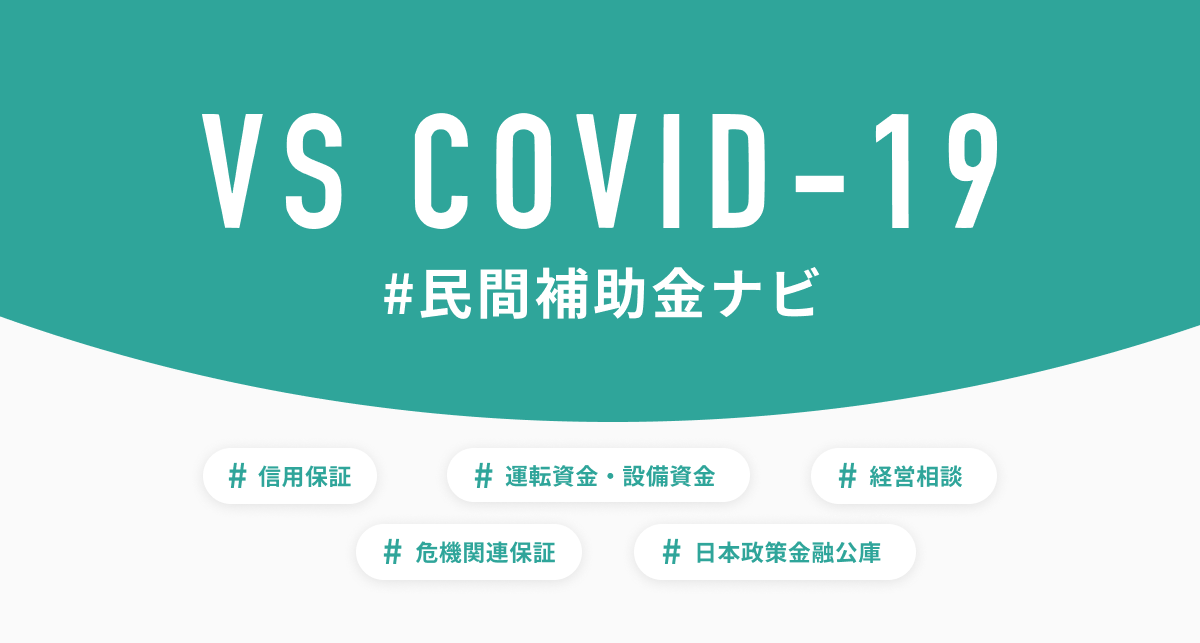
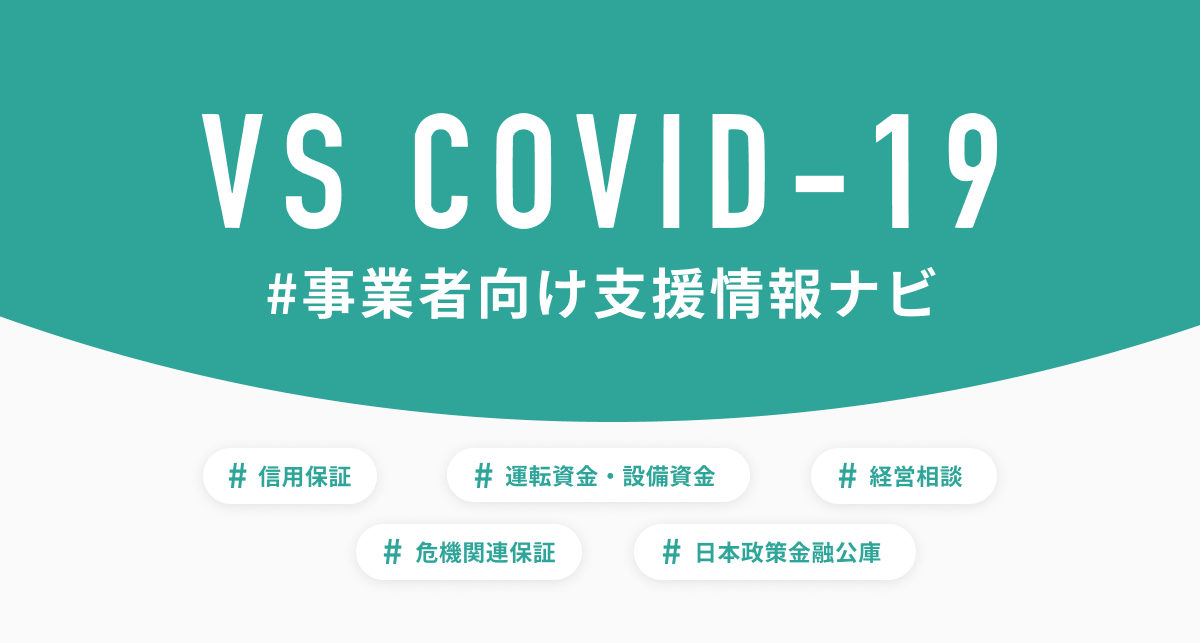
:camera: Update main image

Changed region(s): [[0.2158, 0.4044, 0.8017, 0.4977]]

diff --git a/src/index.html b/src/index.html
@@ -9,7 +9,7 @@
     <meta property="og:type"          content="website" />
     <meta property="og:title"         content="VS COVID-19 #事業者向け支援情報ナビ" />
     <meta property="og:description"   content="行政機関による新型コロナウイルス感染症対策支援情報まとめ" />
-    <meta property="og:image"         content="https://user-images.githubusercontent.com/19779874/78472362-09591980-7773-11ea-9a00-a3b959cadc36.png" />
+    <meta property="og:image"         content="https://user-images.githubusercontent.com/19779874/78472507-55f12480-7774-11ea-8eb8-6cc79842cf55.png" />
     <meta name="twitter:card" content="summary_large_image"> -->
     <title>VS COVID-19 #事業者向け支援情報ナビ</title>
   </head>
